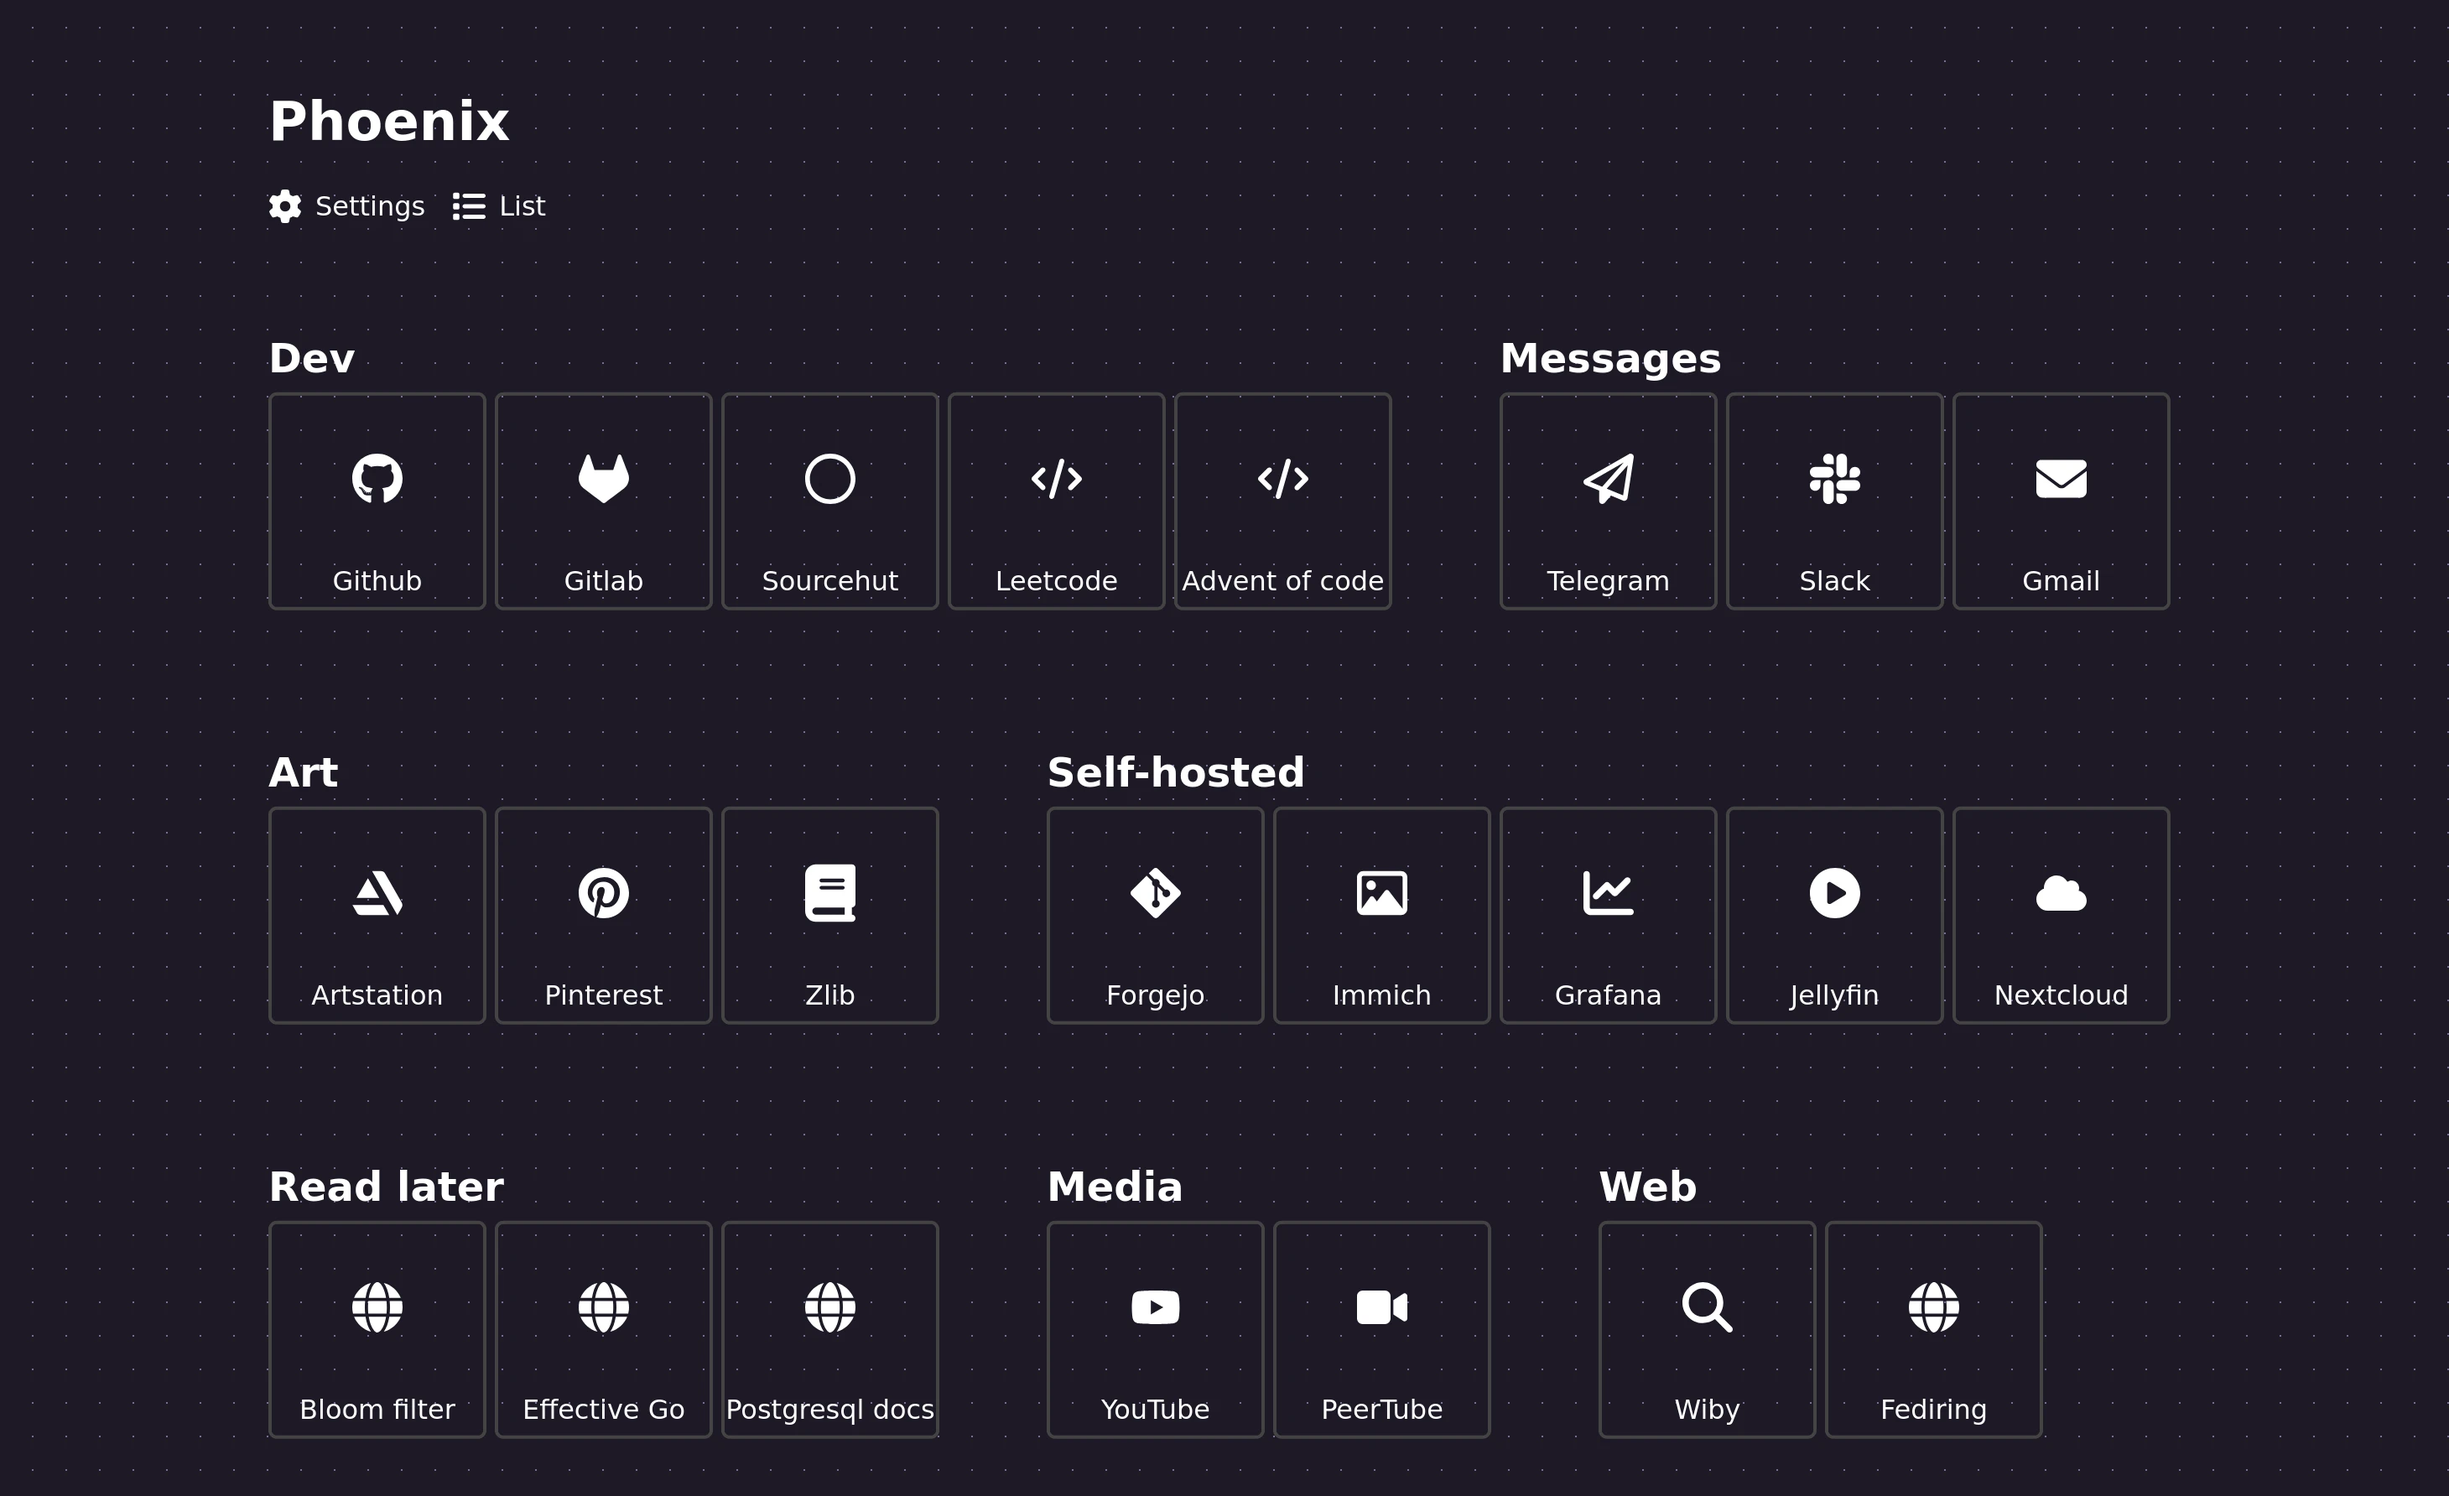
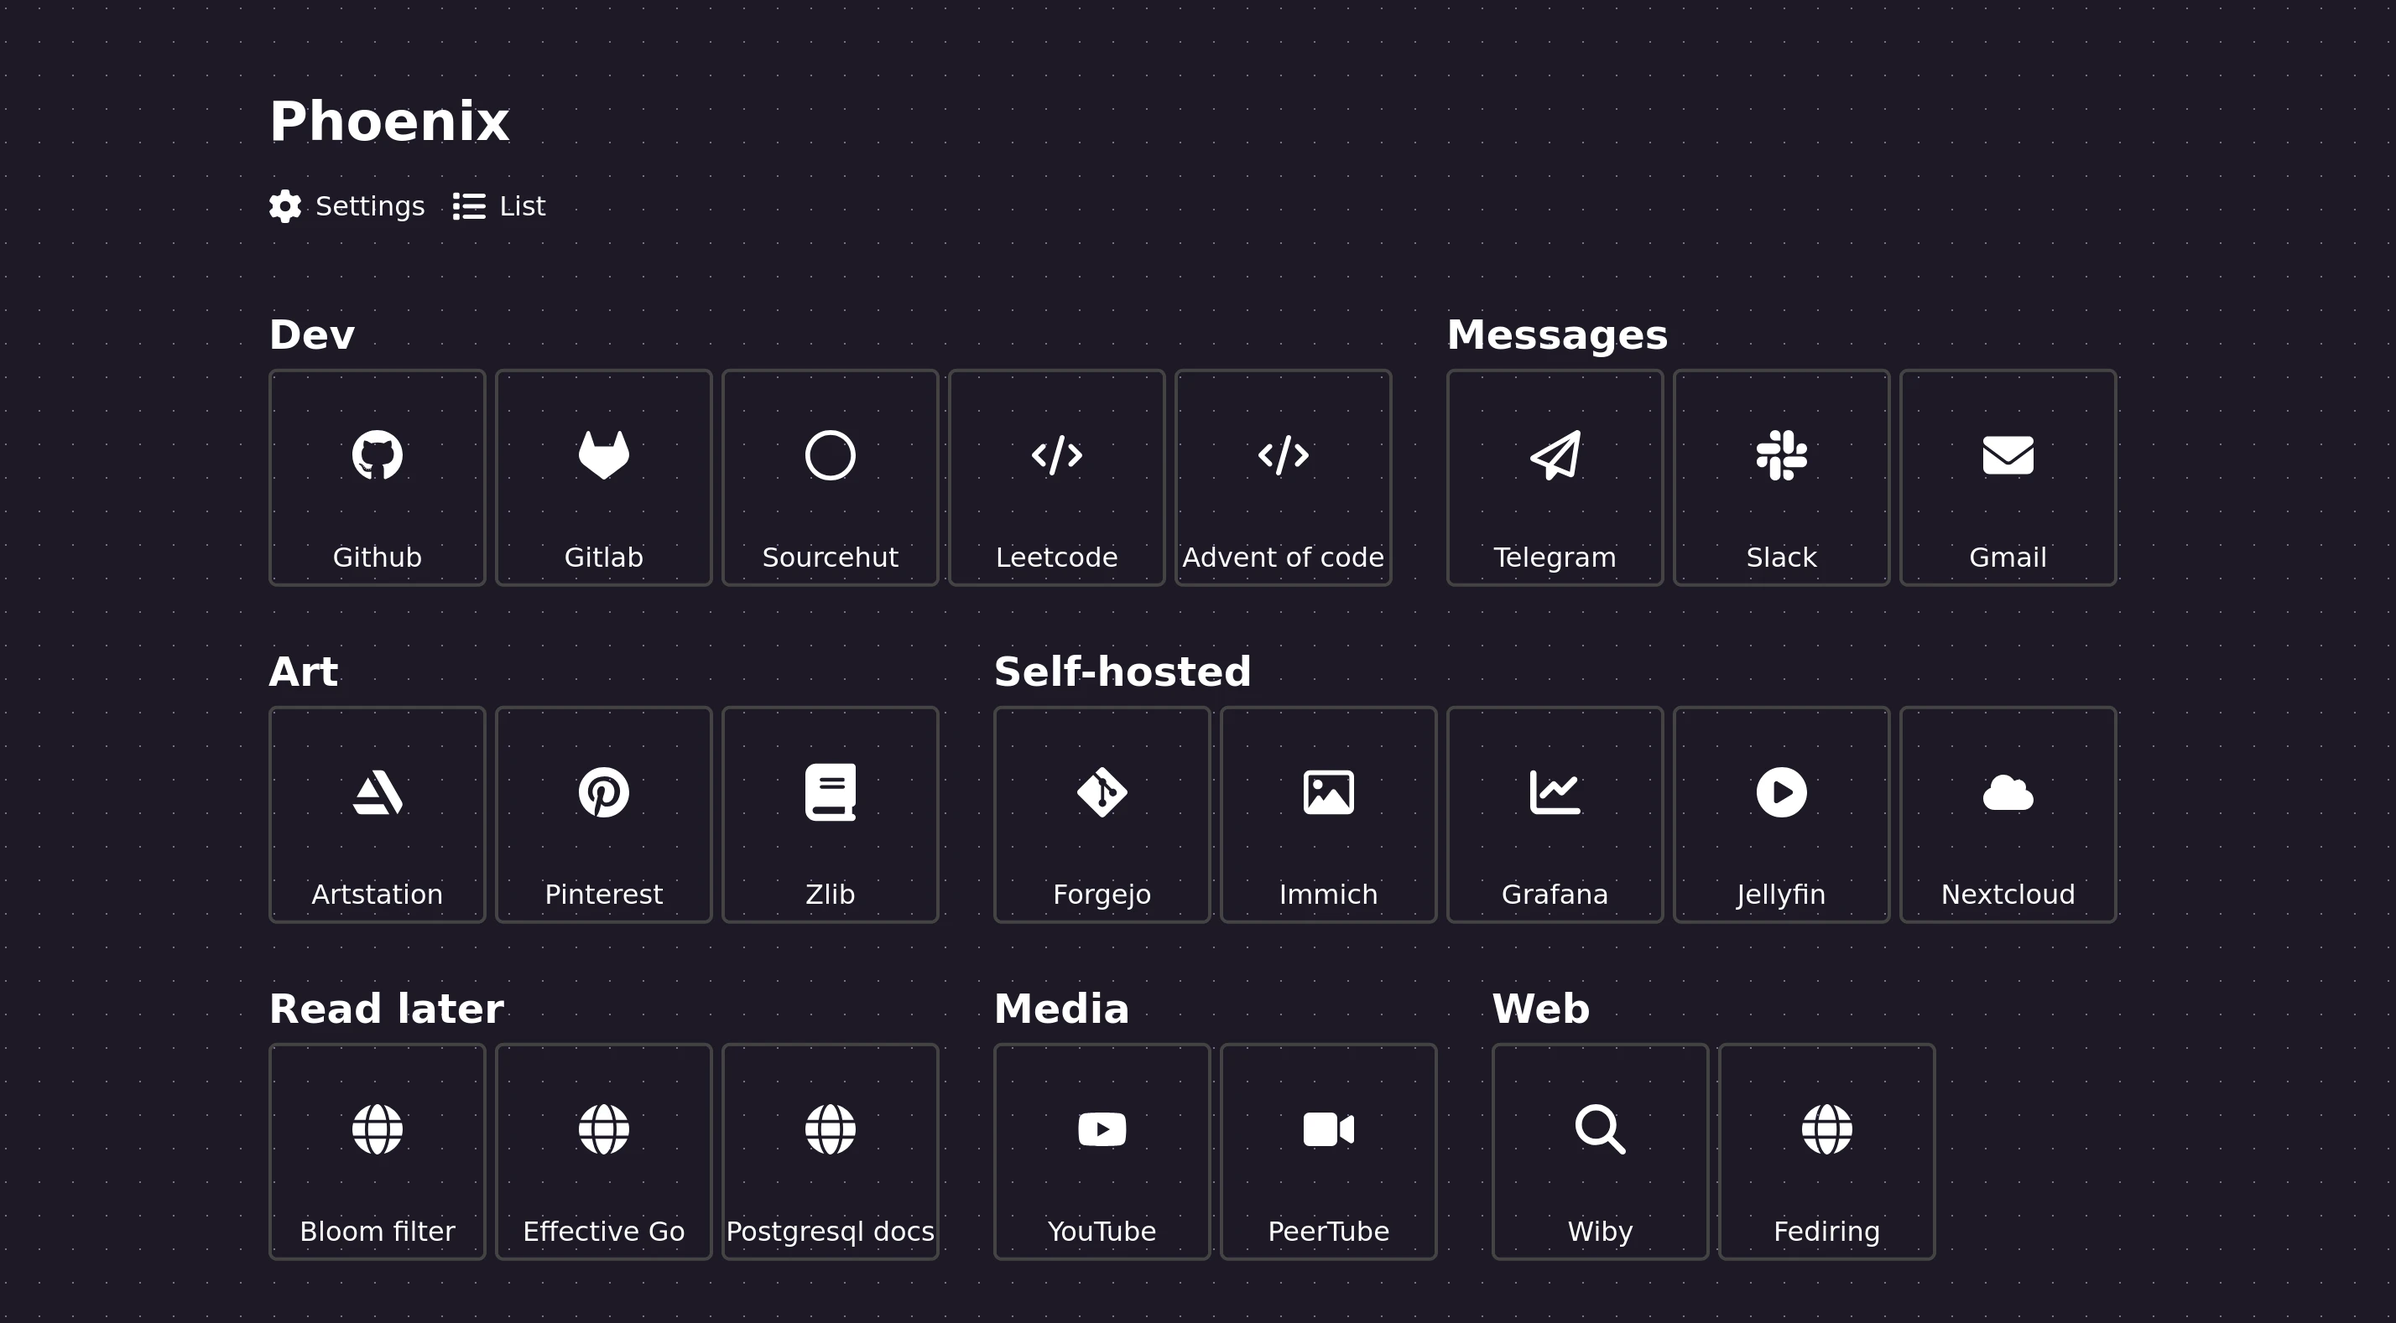
Make margins in tile mode smaller

diff --git a/web/assets/css/index-list.css b/web/assets/css/index-list.css
@@ -1,6 +1,16 @@
+@media screen and (min-width: 600px) {
+    .row {
+        gap: 4em;
+    }
+}
+
 .group {
     width: 100%;
     max-width: max-content;
+}
+
+.group h2 {
+    margin-top: 18px;
 }
 
 .links > a {

diff --git a/web/assets/css/index-tiles.css b/web/assets/css/index-tiles.css
@@ -1,6 +1,16 @@
+@media screen and (min-width: 600px) {
+    .row {
+        gap: 2em;
+    }
+}
+
 .group {
     width: 100%;
     max-width: max-content;
+}
+
+.group h2 {
+    margin-top: 4px;
 }
 
 .links {

diff --git a/web/assets/css/index-common.css b/web/assets/css/index-common.css
@@ -13,9 +13,6 @@
     .page {
         padding: 2em 10em
     }
-    .row {
-        gap: 4em;
-    }
 }
 
 .controls {
@@ -35,7 +32,6 @@
 }
 
 h2 {
-    margin-top: 18px;
     margin-bottom: 6px;
 }
 
